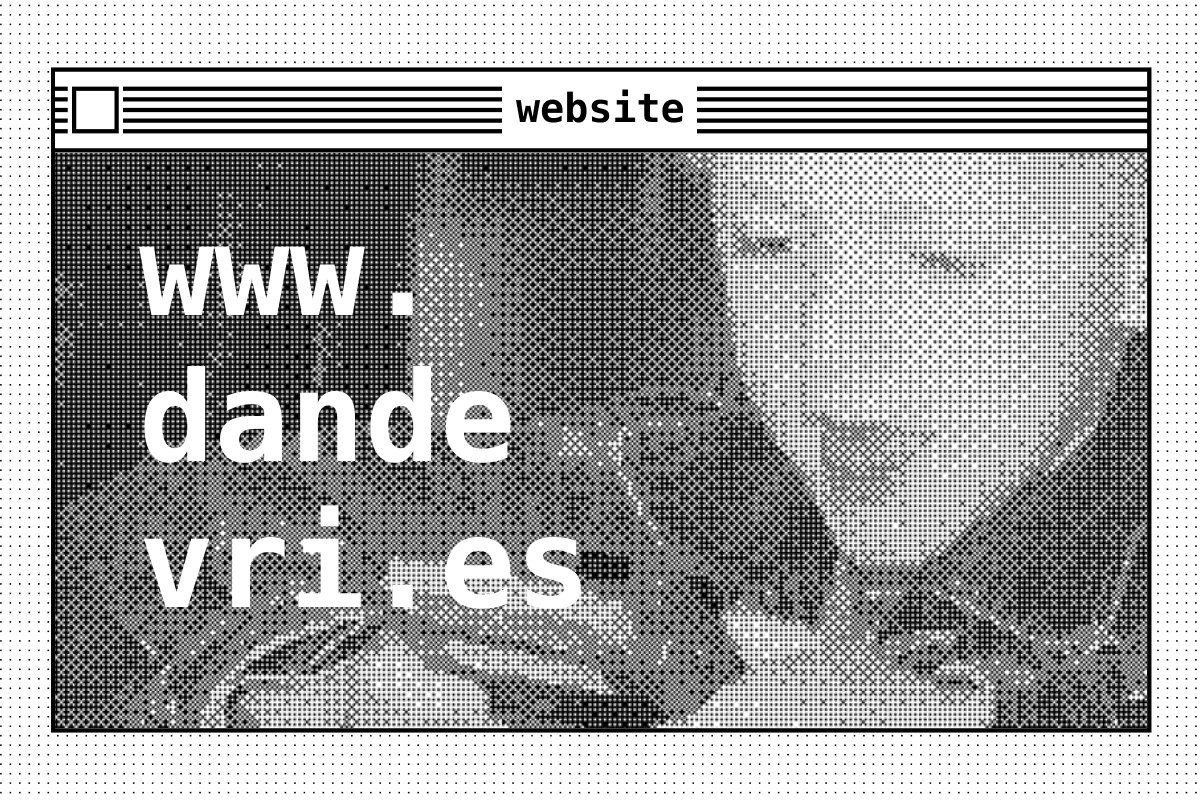
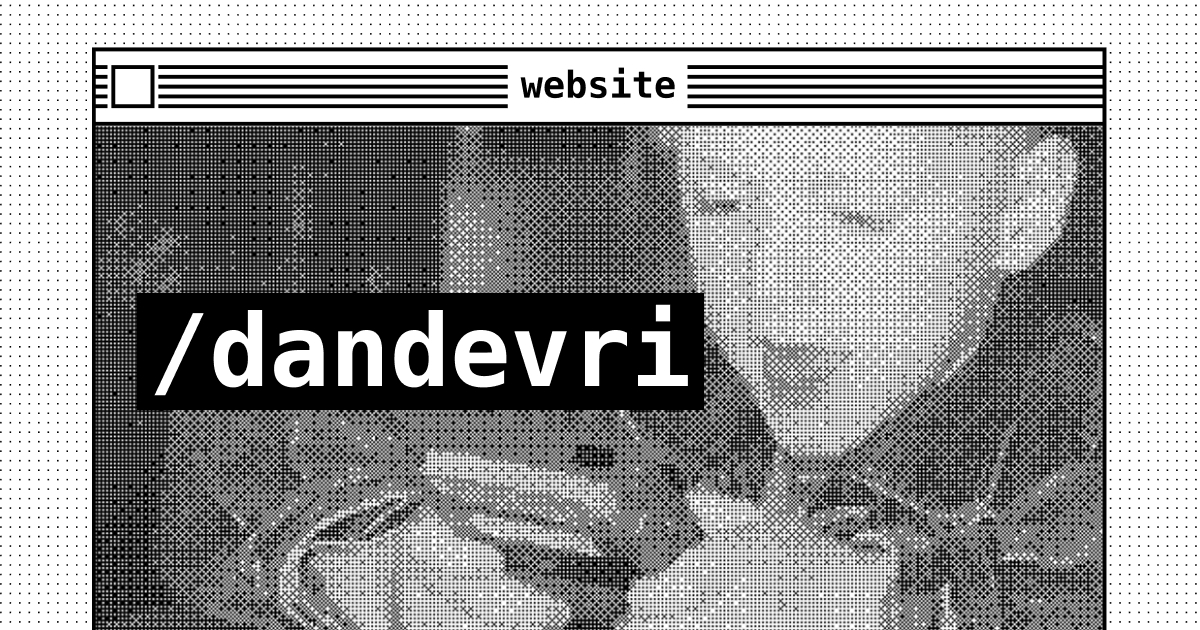
Update share images 'big' pages

diff --git a/pages/about.md b/pages/about.md
@@ -6,6 +6,8 @@ permalink: about/
 eleventyNavigation:
   key: About
   order: 2
+cover: /static/img/share/share-about.jpg
+sentence: tl;dr I'm Danny de Vries. Indie Maker building digital products for the web and lecturer at CMD Amsterdam.
 ---
 
 Hi! I'm Danny de Vries (@dandevri), which you've probably already guessed from the header above. I like making stuff on the internet. I'm passionate about technology, privacy, time well spent, interfaces and building digital products.

diff --git a/pages/other/uses.md b/pages/other/uses.md
@@ -6,6 +6,8 @@ permalink: uses/
 eleventyNavigation:
   key: Uses
   order: 7
+cover: /static/img/share/share-uses.jpg
+sentence: Here are the tools of the trade that I love to use. I recommend each item on this list and switch things up pretty often to see if something improves my workflow.
 ---
 
 ![Set-up desk with all the gear](/static/img/photos/desk.jpeg)
